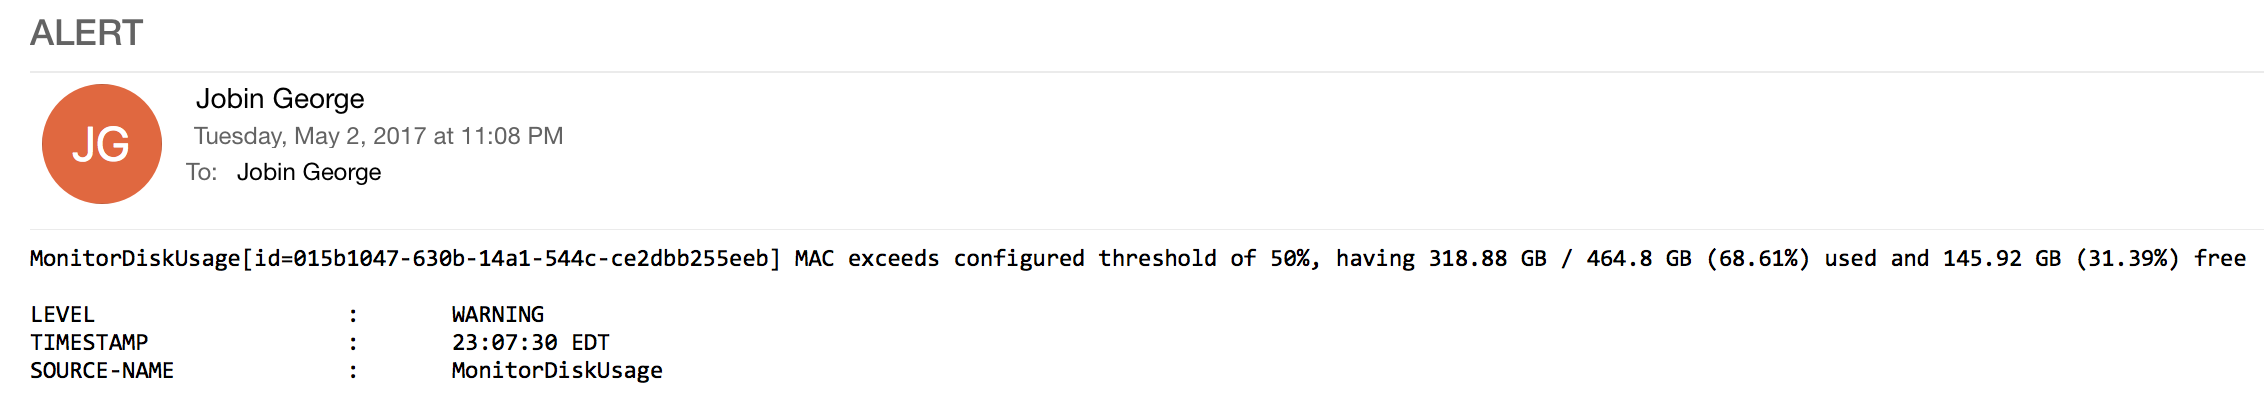
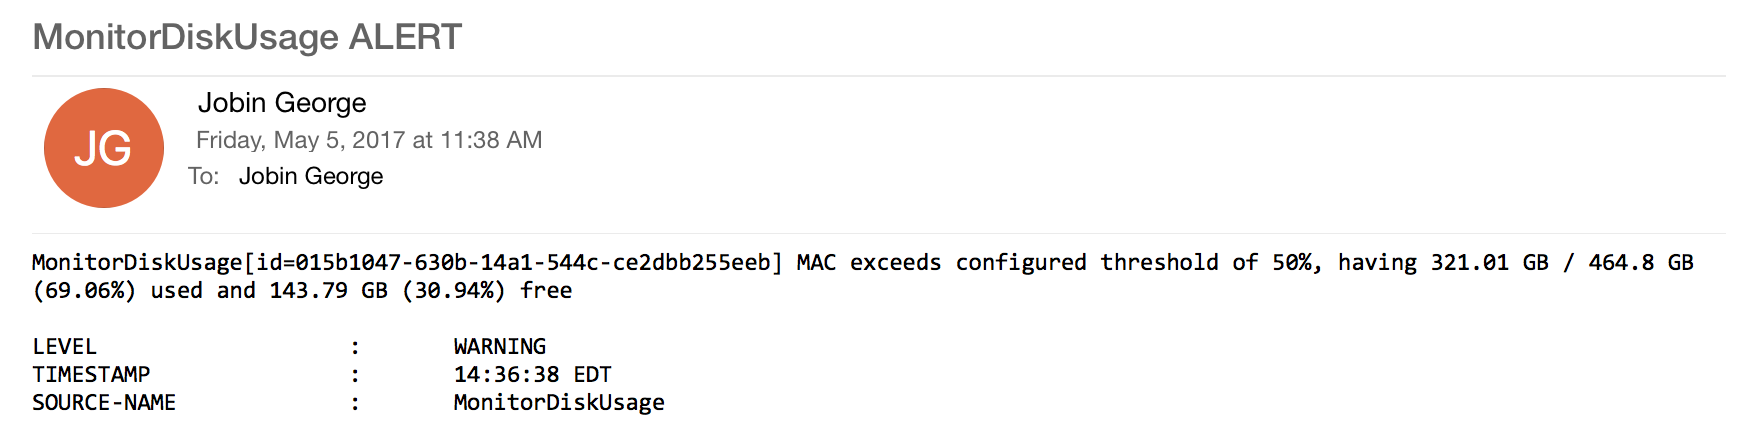
Image Update
Image Update

diff --git a/README.md b/README.md
@@ -89,7 +89,7 @@ SMTP Password			: 	Its_myPassw0rd_updateY0urs
 SMTP TLS			:	true
 From				:	jgeorge@hortonworks.com
 To				:	jgeorge@hortonworks.com
-Subject				:	${sourceName} ALERT
+Subject				:	${SOURCE-NAME} ALERT
 ```
 
 and message content should look something like below to grab all the values:
